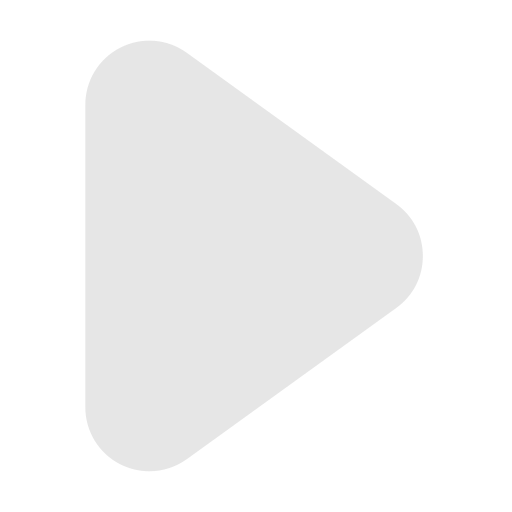
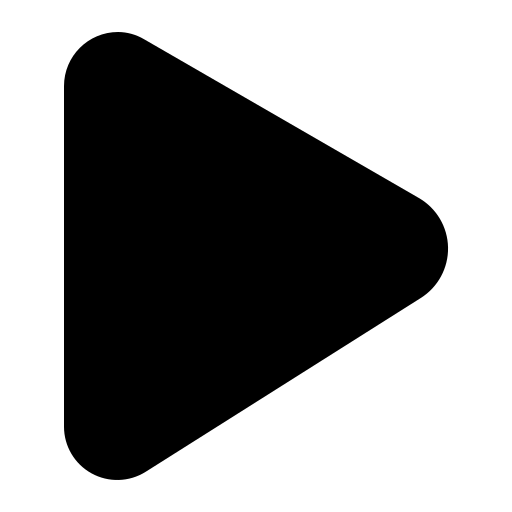
done with the css and now i will do the js

diff --git a/style.css b/style.css
@@ -1,0 +1,85 @@
+* {
+    margin: 0;
+    padding: 0;
+    font-family: Arial, Helvetica, sans-serif;
+    box-sizing: border-box;
+}
+
+.hero {
+    width: 100%;
+    min-height: 100vh;
+    background: #42a5f5;
+    display: flex;
+    align-items: center;
+    justify-content: center;
+    flex-direction: column;
+    color: black;
+}
+
+.hero h1 {
+    font-size: 45px;
+    font-weight: 500;
+    margin-top: -50px;
+    margin-bottom: 50px;
+}
+
+textarea {
+    width: 600px;
+    height: 250px;
+    background: white;
+    color: black;
+    font-size: 15px;
+    border: 0;
+    outline: 0;
+    padding: 20px;
+    border-radius: 10px;
+    resize: none;
+    margin-bottom: 30px;
+}
+
+textarea::placeholder {
+    font-size: 16px;
+    color: black;
+}
+
+.row {
+    width: 600px;
+    display: flex;
+    align-items: center;
+    gap: 10px;
+}
+
+button {
+    background: #90caf9;
+    color: black;
+    font-size: 16px;
+    padding: 10px 30px;
+    border-radius: 35px;
+    border: 0;
+    outline: 0;
+    cursor: pointer;
+    display: flex;
+    align-items: center;
+}
+
+button img {
+    width: 16px;
+    margin-right: 10px;
+}
+
+select {
+    flex: 1;
+    color: black;
+    background: #90caf9;
+    height: 50px;
+    padding: 0 20px;
+    outline: 0;
+    border: 0;
+    border-radius: 35px;
+    appearance: none;
+    background-image: url(dropdown.png);
+    background-repeat: no-repeat;
+    background-size: 15px;
+    background-position-x: calc(100% - 20px);
+    background-position-y: 20px;
+}

diff --git a/index.html b/index.html
@@ -7,7 +7,7 @@
     </head>
     <body>
         <div class="hero">
-            <h1>Text To Speech <span>Converter</span></h1>
+            <h1>Text To Speech Converter</h1>
             <textarea placeholder="Write here.."></textarea>
             <div class="row">
                 <select></select>